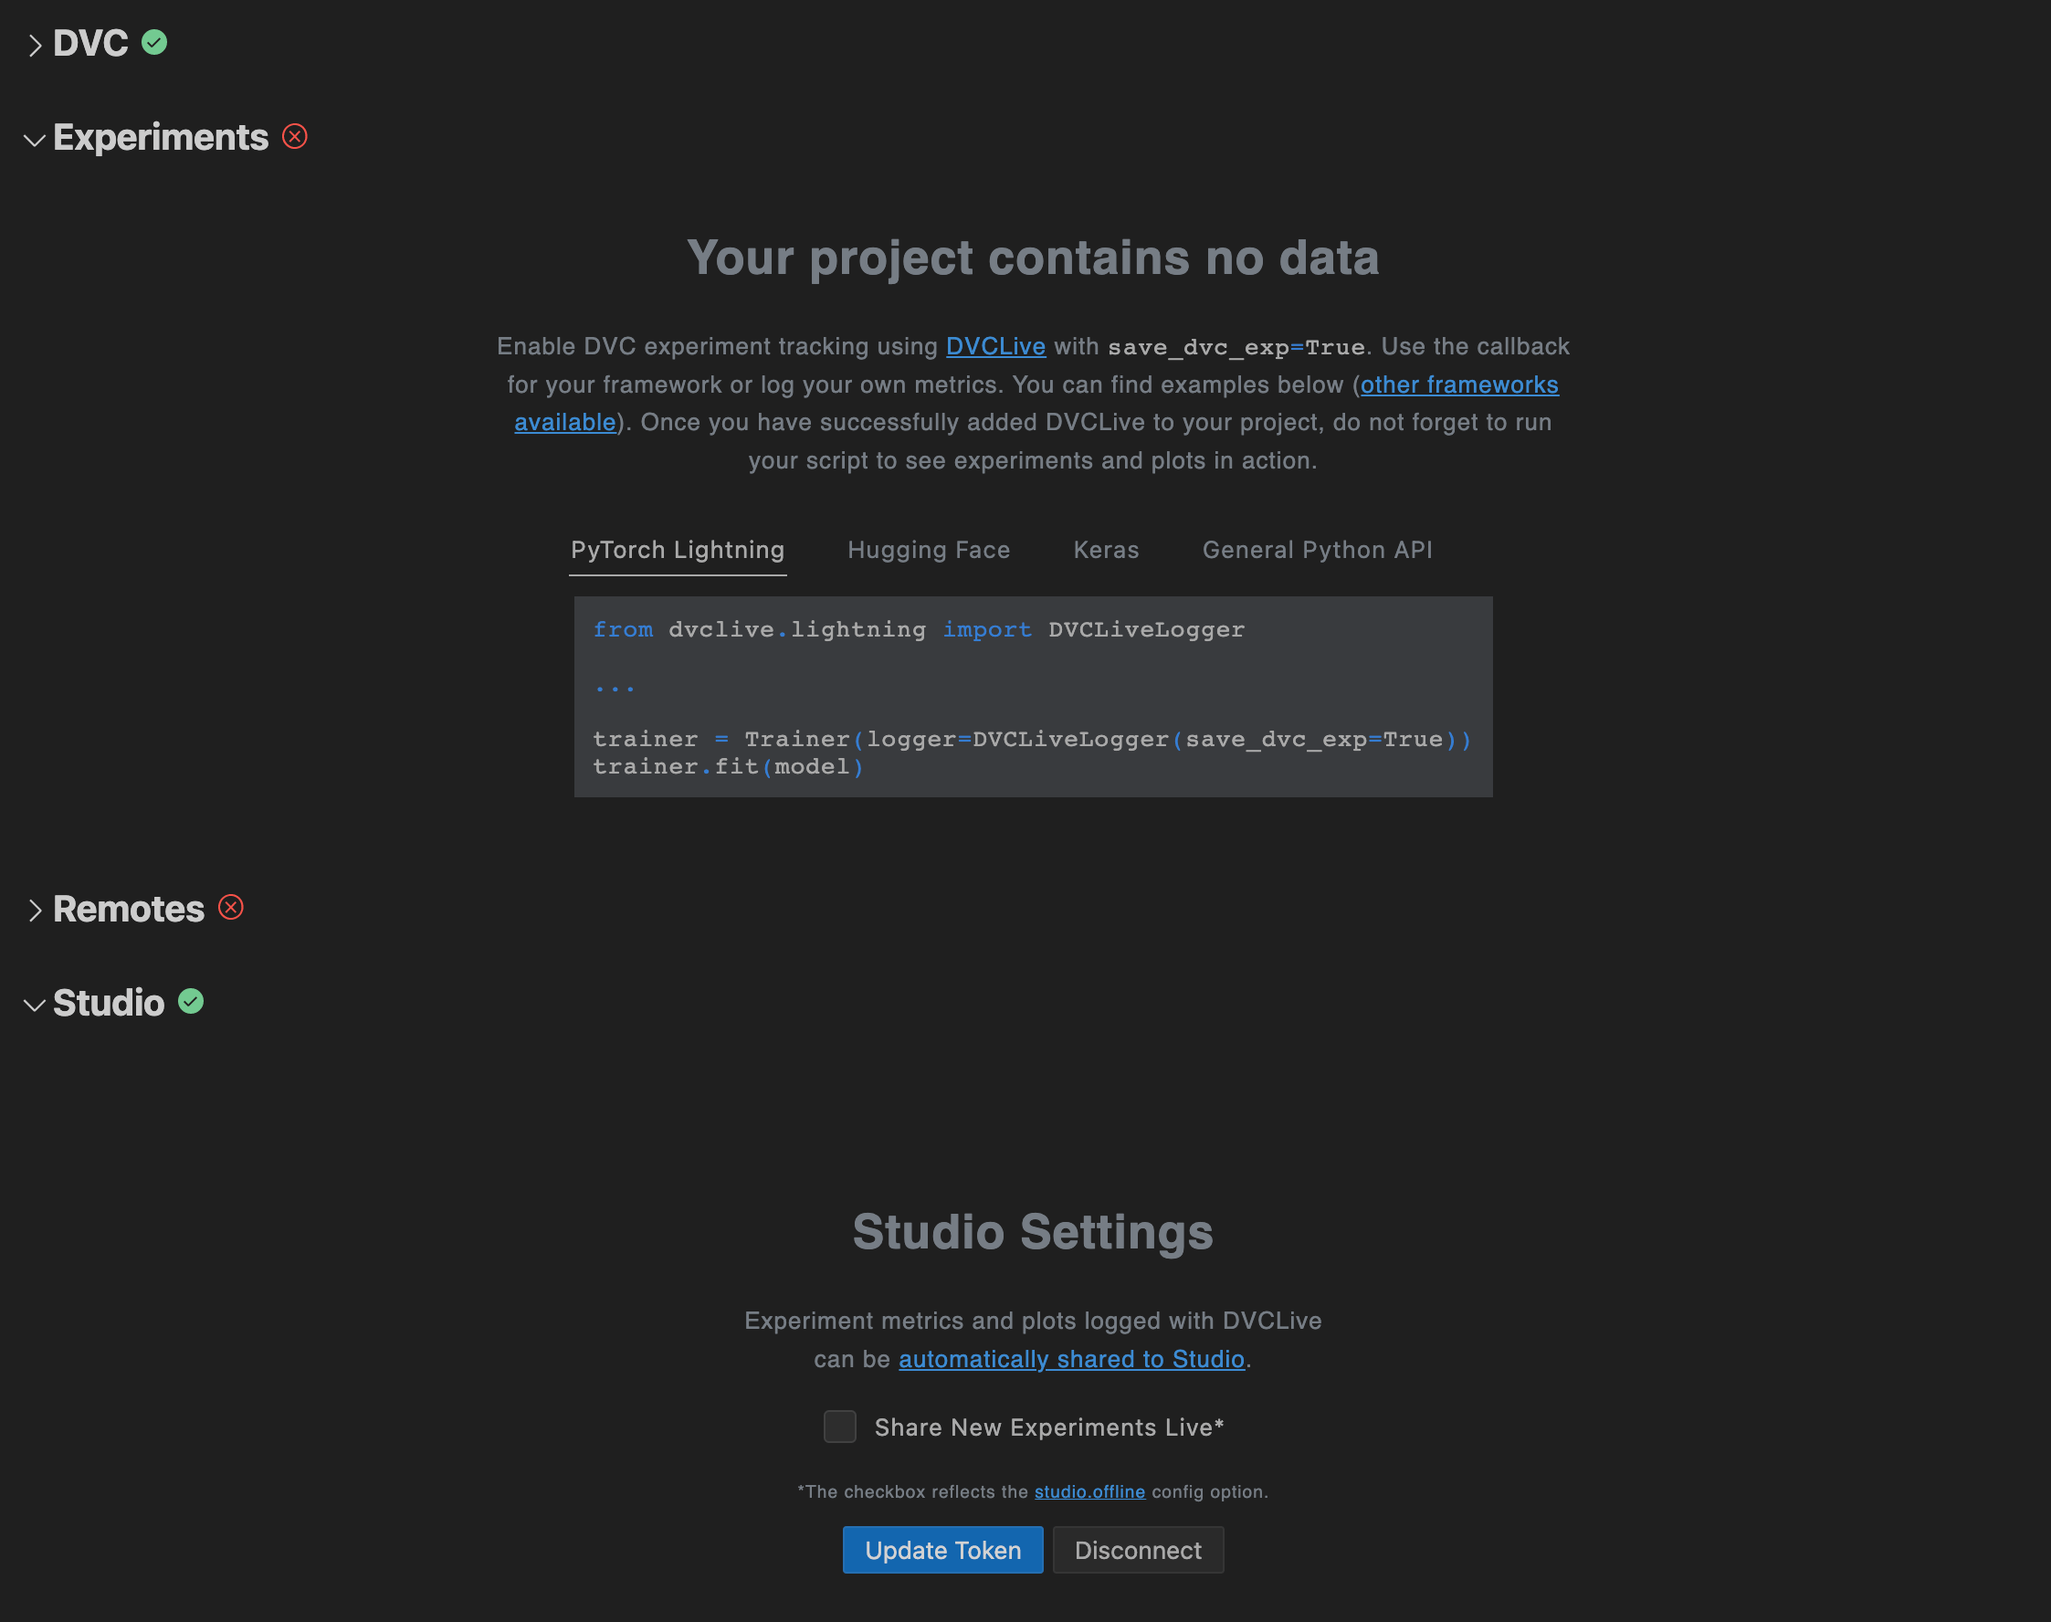
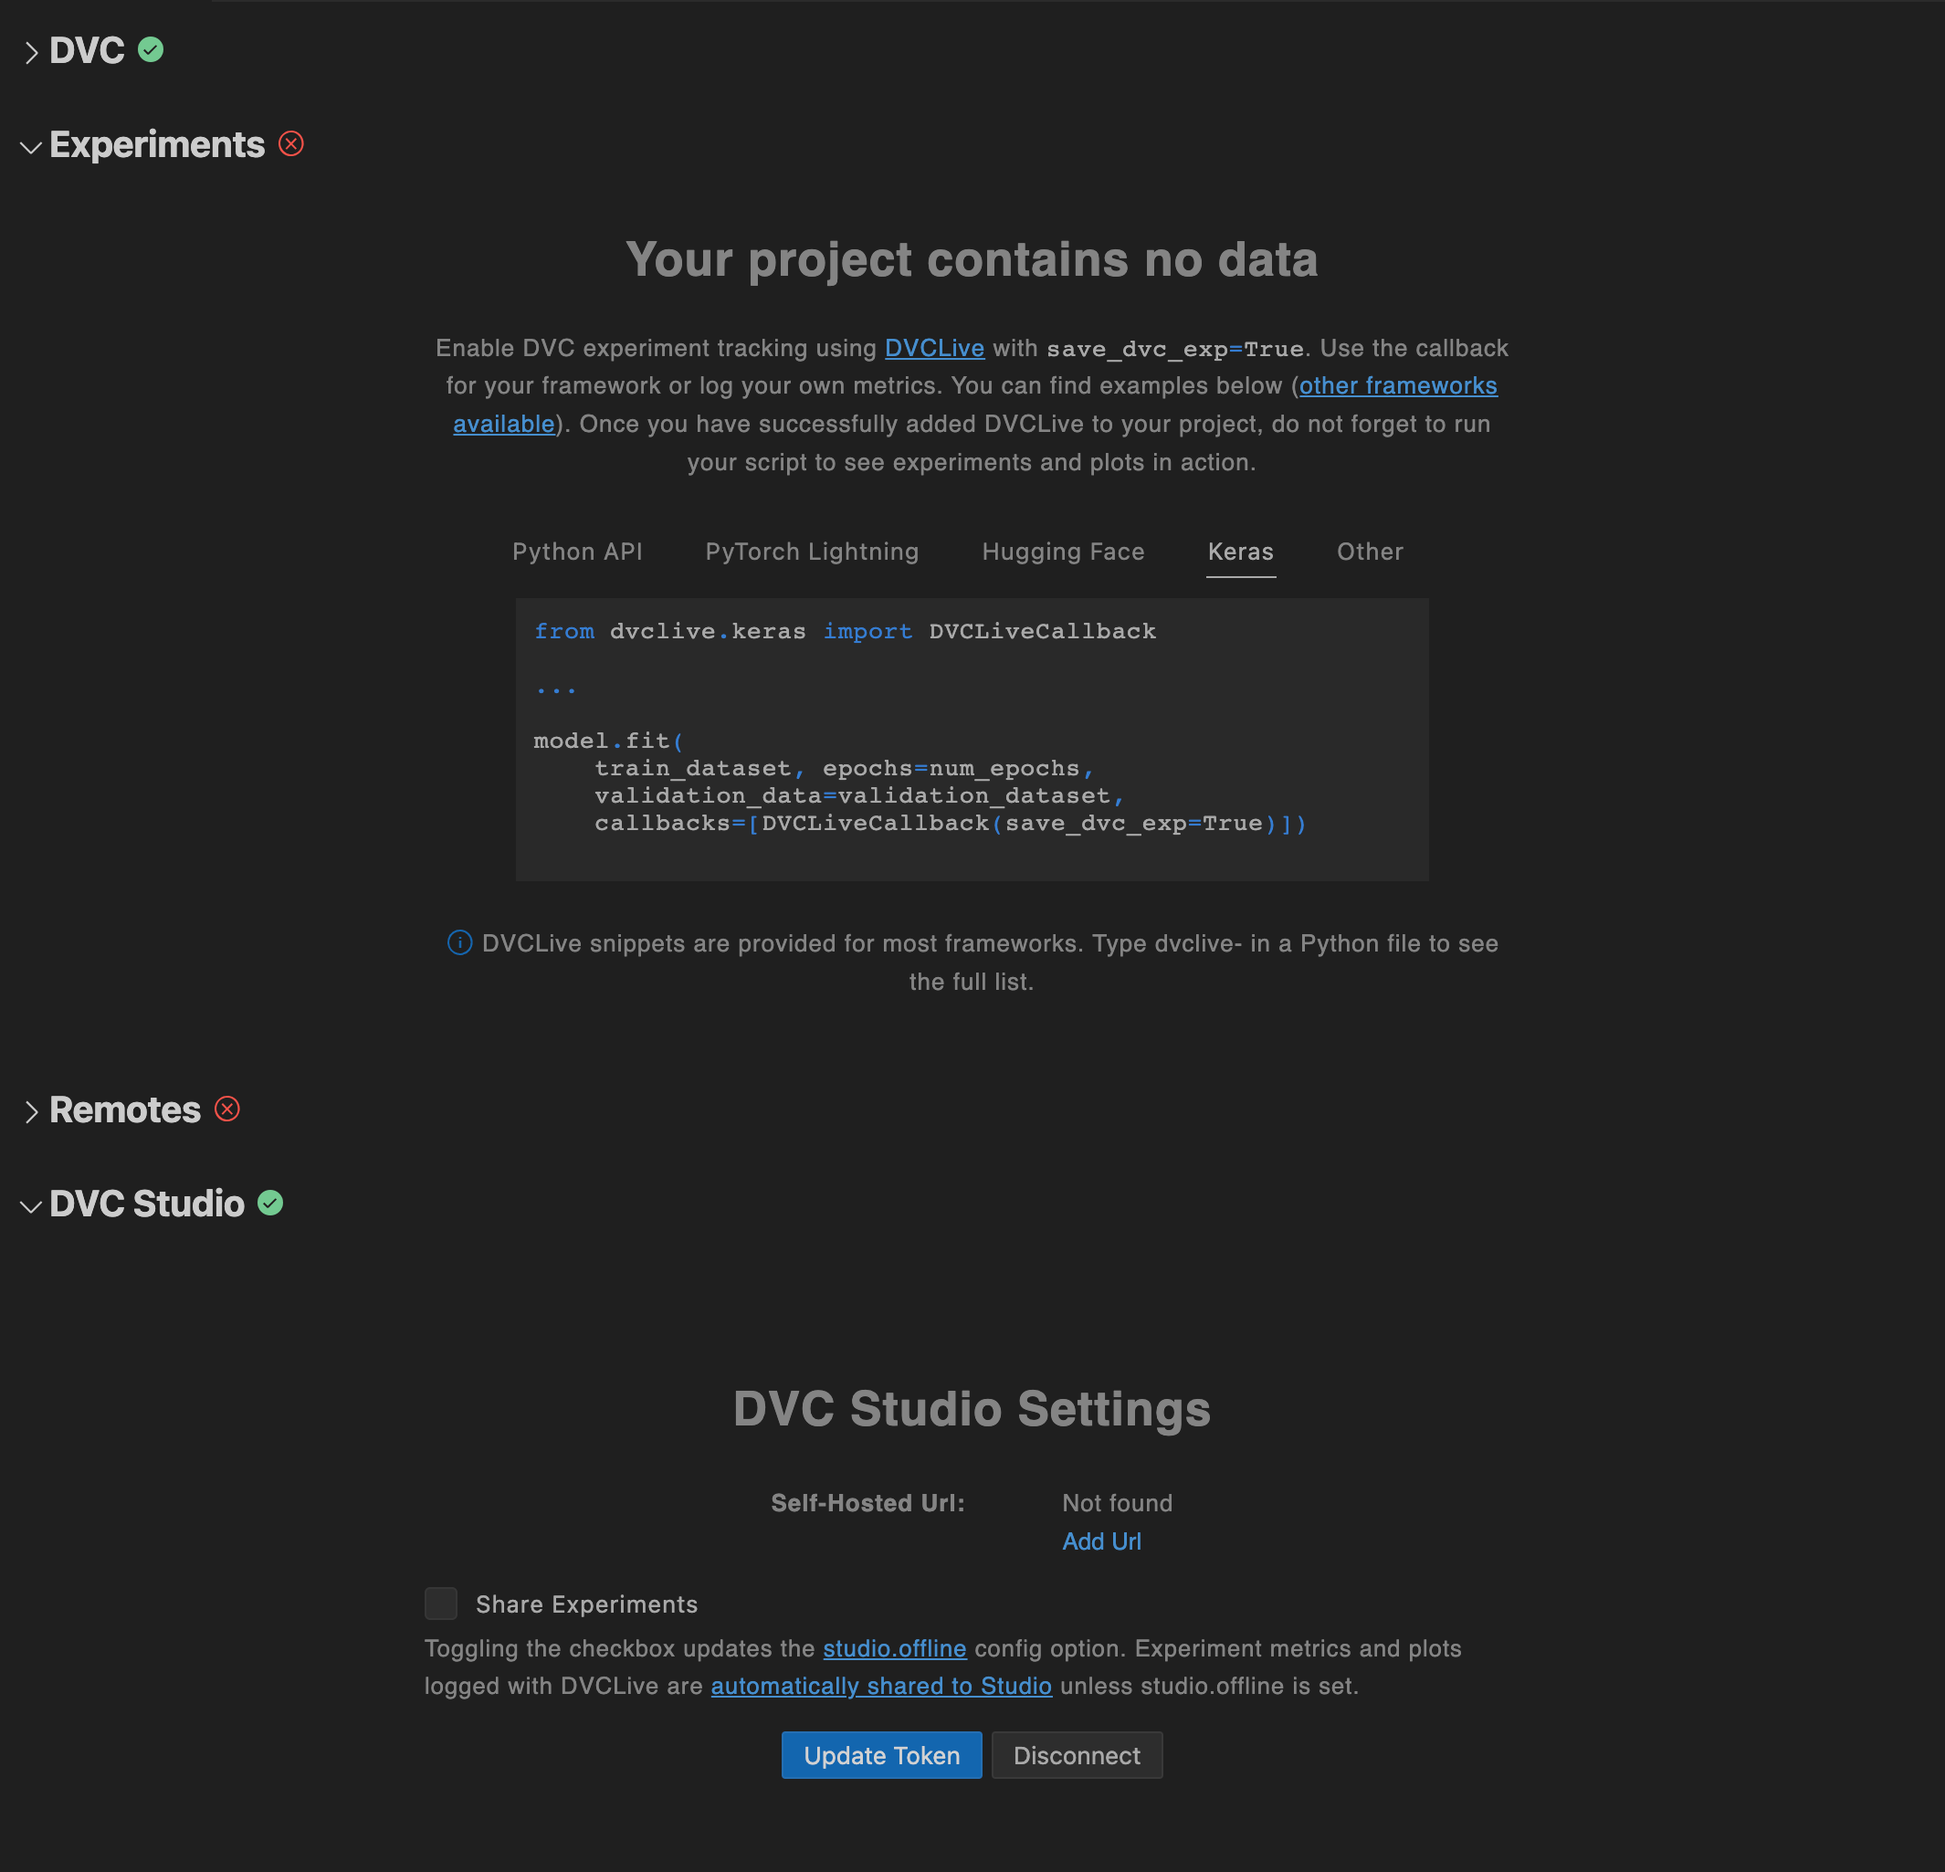
Rename "Studio" to "DVC Studio" in text instances (#5142)

diff --git a/extension/src/test/suite/experiments/index.test.ts b/extension/src/test/suite/experiments/index.test.ts
@@ -812,7 +812,7 @@ suite('Experiments Test Suite', () => {
       expect(mockReport).to.be.calledWithExactly({
         increment: 75,
         message:
-          "Experiment major-lamb is up to date on Git remote 'origin'.\nView your experiments in [Studio](https://studio.iterative.ai/user/mattseddon/projects/vscode-dvc-demo-ynm6t3jxdx)"
+          "Experiment major-lamb is up to date on Git remote 'origin'.\nView your experiments in [DVC Studio](https://studio.iterative.ai/user/mattseddon/projects/vscode-dvc-demo-ynm6t3jxdx)"
       })
 
       messageSpy.restore()

diff --git a/webview/src/shared/components/sectionContainer/SectionDescription.tsx b/webview/src/shared/components/sectionContainer/SectionDescription.tsx
@@ -84,7 +84,7 @@ export const SectionDescriptionMainText = {
   [SetupSection.STUDIO]: (
     <>
       {"Configure the extension's connection to "}
-      <a href={DEFAULT_STUDIO_URL}>Studio</a>.<br />
+      <a href={DEFAULT_STUDIO_URL}>DVC Studio</a>.<br />
       Studio provides a collaboration platform for Machine Learning and is free
       for small teams and individual contributors.
     </>

diff --git a/webview/src/experiments/components/table/body/RowContextMenu.tsx b/webview/src/experiments/components/table/body/RowContextMenu.tsx
@@ -297,7 +297,7 @@ const getSingleSelectMenuOptions = (
     {
       disabled: !studioLinkType,
       id: MessageFromWebviewType.COPY_STUDIO_LINK,
-      label: 'Copy Studio Link',
+      label: 'Copy DVC Studio Link',
       message: {
         payload: { id, type: studioLinkType },
         type: MessageFromWebviewType.COPY_STUDIO_LINK

diff --git a/webview/src/experiments/components/table/body/CopyStudioLink.tsx b/webview/src/experiments/components/table/body/CopyStudioLink.tsx
@@ -27,7 +27,7 @@ export const CopyStudioLink: React.FC<{ id: string }> = ({ id }) => {
 
   return (
     <CellHintTooltip
-      tooltipContent={'Experiment on remote\nClick to copy Studio link'}
+      tooltipContent={'Experiment on remote\nClick to copy DVC Studio link'}
     >
       <div
         className={styles.upload}

diff --git a/extension/src/experiments/commands/index.ts b/extension/src/experiments/commands/index.ts
@@ -68,7 +68,7 @@ const convertUrlTextToLink = (stdout: string) => {
   if (!(match?.[0] && match?.[1])) {
     return stdout
   }
-  return stdout.replace(match[0], ` in [Studio](${match[1]})`)
+  return stdout.replace(match[0], ` in [DVC Studio](${match[1]})`)
 }
 
 export const getPushExperimentCommand =

diff --git a/webview/src/experiments/components/App.test.tsx b/webview/src/experiments/components/App.test.tsx
@@ -1664,7 +1664,7 @@ describe('App', () => {
 
       const copyLinkOption = menuitems.find(
         item =>
-          item.textContent?.includes('Copy Studio Link') &&
+          item.textContent?.includes('Copy DVC Studio Link') &&
           !item.className.includes('disabled')
       )
 

diff --git a/README.md b/README.md
@@ -152,7 +152,7 @@ These are the VS Code [settings] available for the Extension:
 | `dvc.focusedProjects`                       | A subset of paths to the workspace's available DVC projects. Using this option will override project auto-discovery.                                     |
 | `dvc.doNotInformMaxExperimentsPlotted`      | Do not inform when plotting more experiments is blocked (maximum number selected).                                                                       |
 | `dvc.doNotShowSetupAfterInstall`            | Do not prompt to show the setup page after installing. Useful for pre-configured development environments.                                               |
-| `dvc.doNotRecommendAddStudioToken`          | Do not prompt to add a [studio.token] to the global DVC config, which enables automatic sharing of experiments to [Studio].                              |
+| `dvc.doNotRecommendAddStudioToken`          | Do not prompt to add a [studio.token] to the global DVC config, which enables automatic sharing of experiments to [DVC Studio].                          |
 | `dvc.doNotRecommendRedHatExtension`         | Do not prompt to install the Red Hat YAML extension, which helps with DVC YAML schema validation (`dvc.yaml` and `.dvc` files).                          |
 | `dvc.doNotRecommendMermaidSupportExtension` | Do not prompt to install the Markdown Preview Mermaid Support extension, which helps to visualize DVC pipeline DAGs.                                     |
 | `dvc.doNotShowCliUnavailable`               | Do not warn when the workspace contains a DVC project but the DVC binary is unavailable.                                                                 |
@@ -167,17 +167,18 @@ the Python extension's selected interpreter will be used to locate DVC. The
 `PYTHONPATH` environment variable identified via the [python.envFile] config
 setting is also respected.
 
-### Studio
+### DVC Studio
 
 [Studio] is a collaboration platform for Machine Learning teams. The extension
 will help you to connect to [Studio] by providing guidance and managing the
-required [DVC config options]. See the Studio section of the Setup page for more
-information.
+required [DVC config options]. See the DVC Studio section of the Setup page for
+more information.
 
 [python extension]:
   https://marketplace.visualstudio.com/items?itemName=ms-python.python
 [studio.token]:
   https://dvc.org/doc/user-guide/project-structure/configuration#studio
+[dvc studio]: https://studio.iterative.ai
 [studio]: https://studio.iterative.ai
 [workspace level]:
   https://code.visualstudio.com/docs/getstarted/settings#_workspace-settings

diff --git a/extension/resources/walkthrough/more-resources.md b/extension/resources/walkthrough/more-resources.md
@@ -20,8 +20,8 @@
 - Check out the [DVC GitHub repository], where you can find and report issues,
   or [contribute] to the open-source project.
 
-- Get introduced to [Studio], the collaboration platform for Machine Learning
-  teams.
+- Get introduced to [DVC Studio], the collaboration platform for Machine
+  Learning teams.
 
 [hands-on tour]: https://dvc.org/doc/start
 [user guide]: https://dvc.org/doc/user-guide
@@ -34,4 +34,4 @@
 [blog]: https://dvc.org/blog
 [community]: https://dvc.org/community
 [dvc github repository]: https://github.com/iterative/dvc
-[studio]: https://studio.iterative.ai/
+[dvc studio]: https://studio.iterative.ai/

diff --git a/extension/resources/walkthrough/setup.md b/extension/resources/walkthrough/setup.md
@@ -3,8 +3,8 @@
 The extension's key features cannot be accessed until DVC is installed and a DVC
 project is available in the workspace. The
 [setup page](command:dvc.showDvcSetup) can assist you with setting up your DVC
-project, along with configuring additional features such as connecting to Studio
-and remotes.
+project, along with configuring additional features such as connecting to DVC
+Studio and remotes.
 
 <p align="center">
   <img src="images/setup-view.png"
